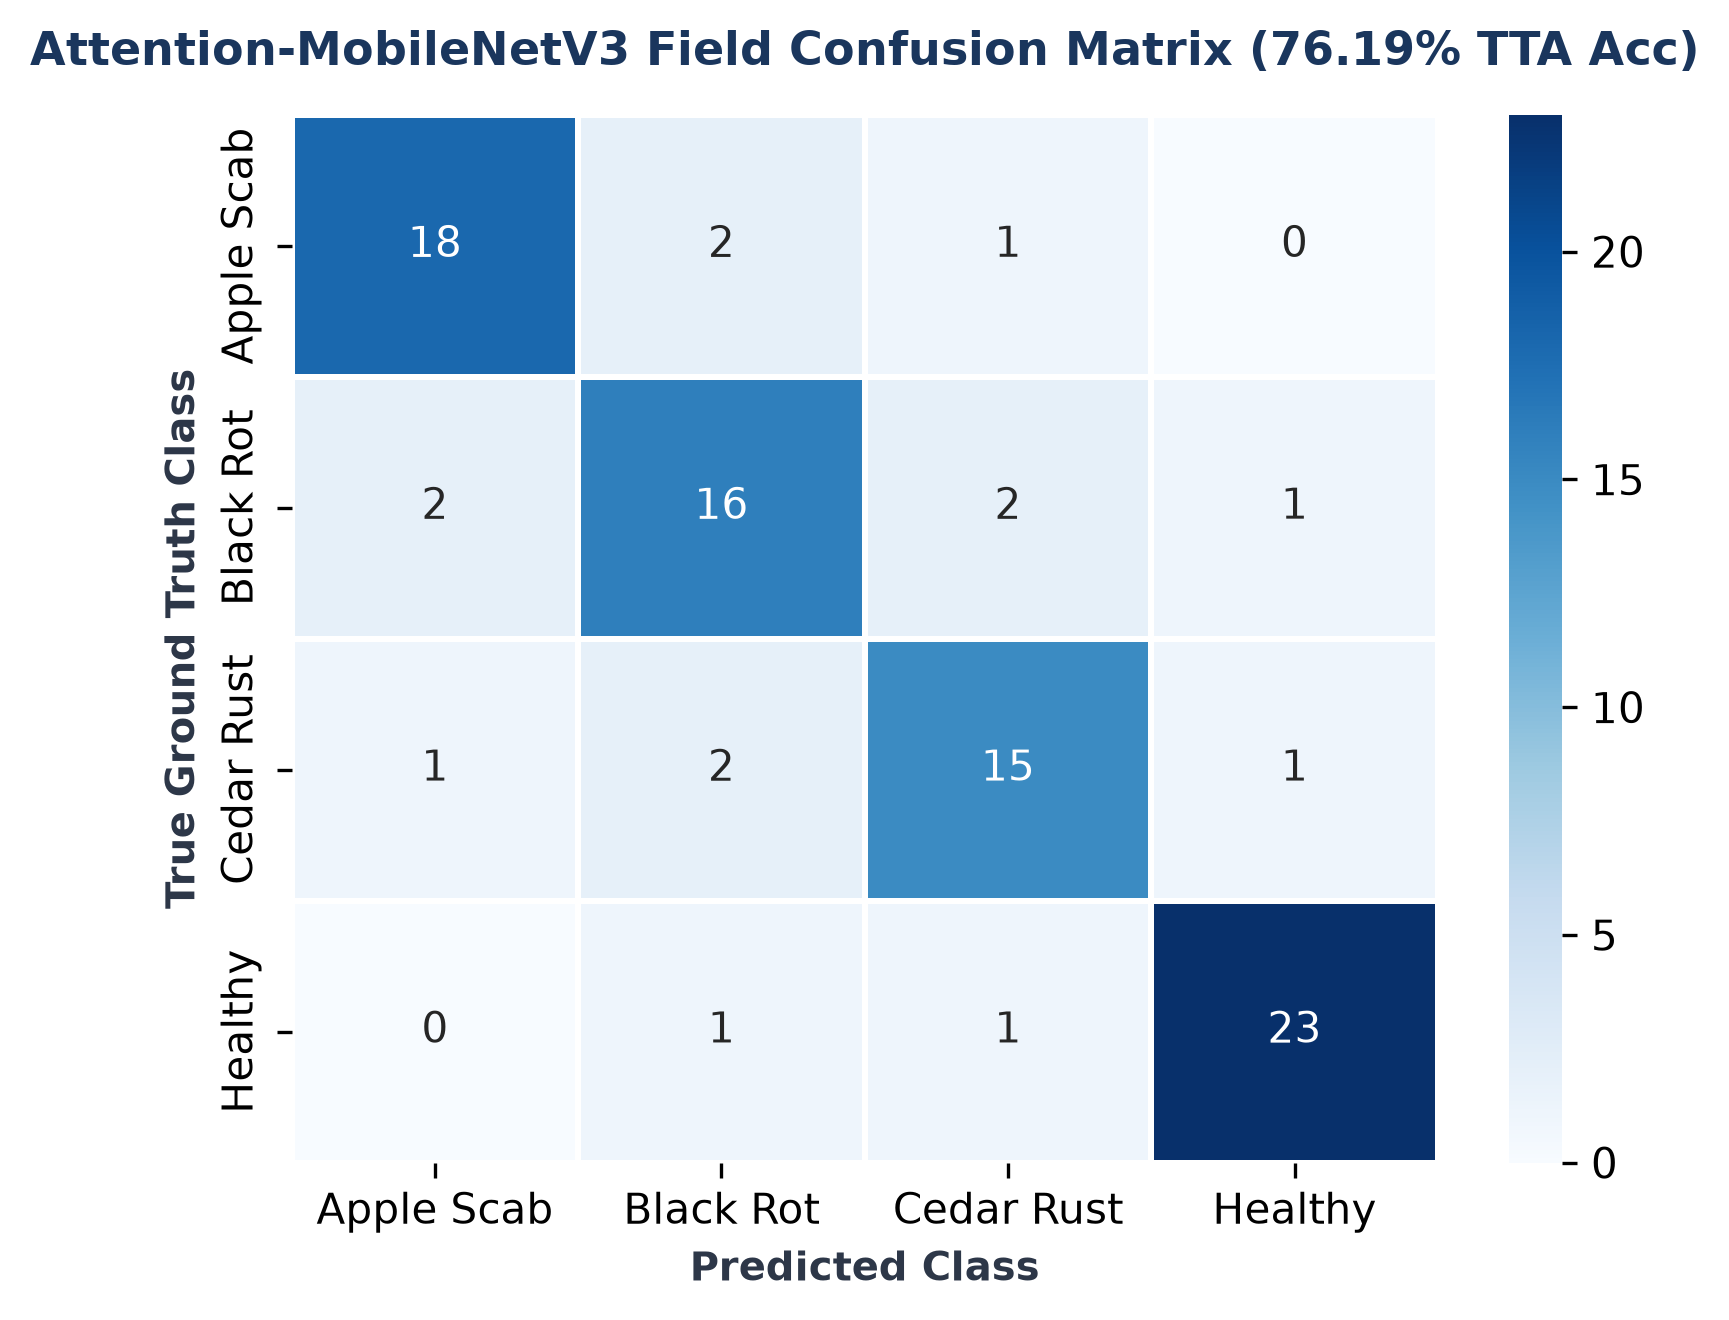
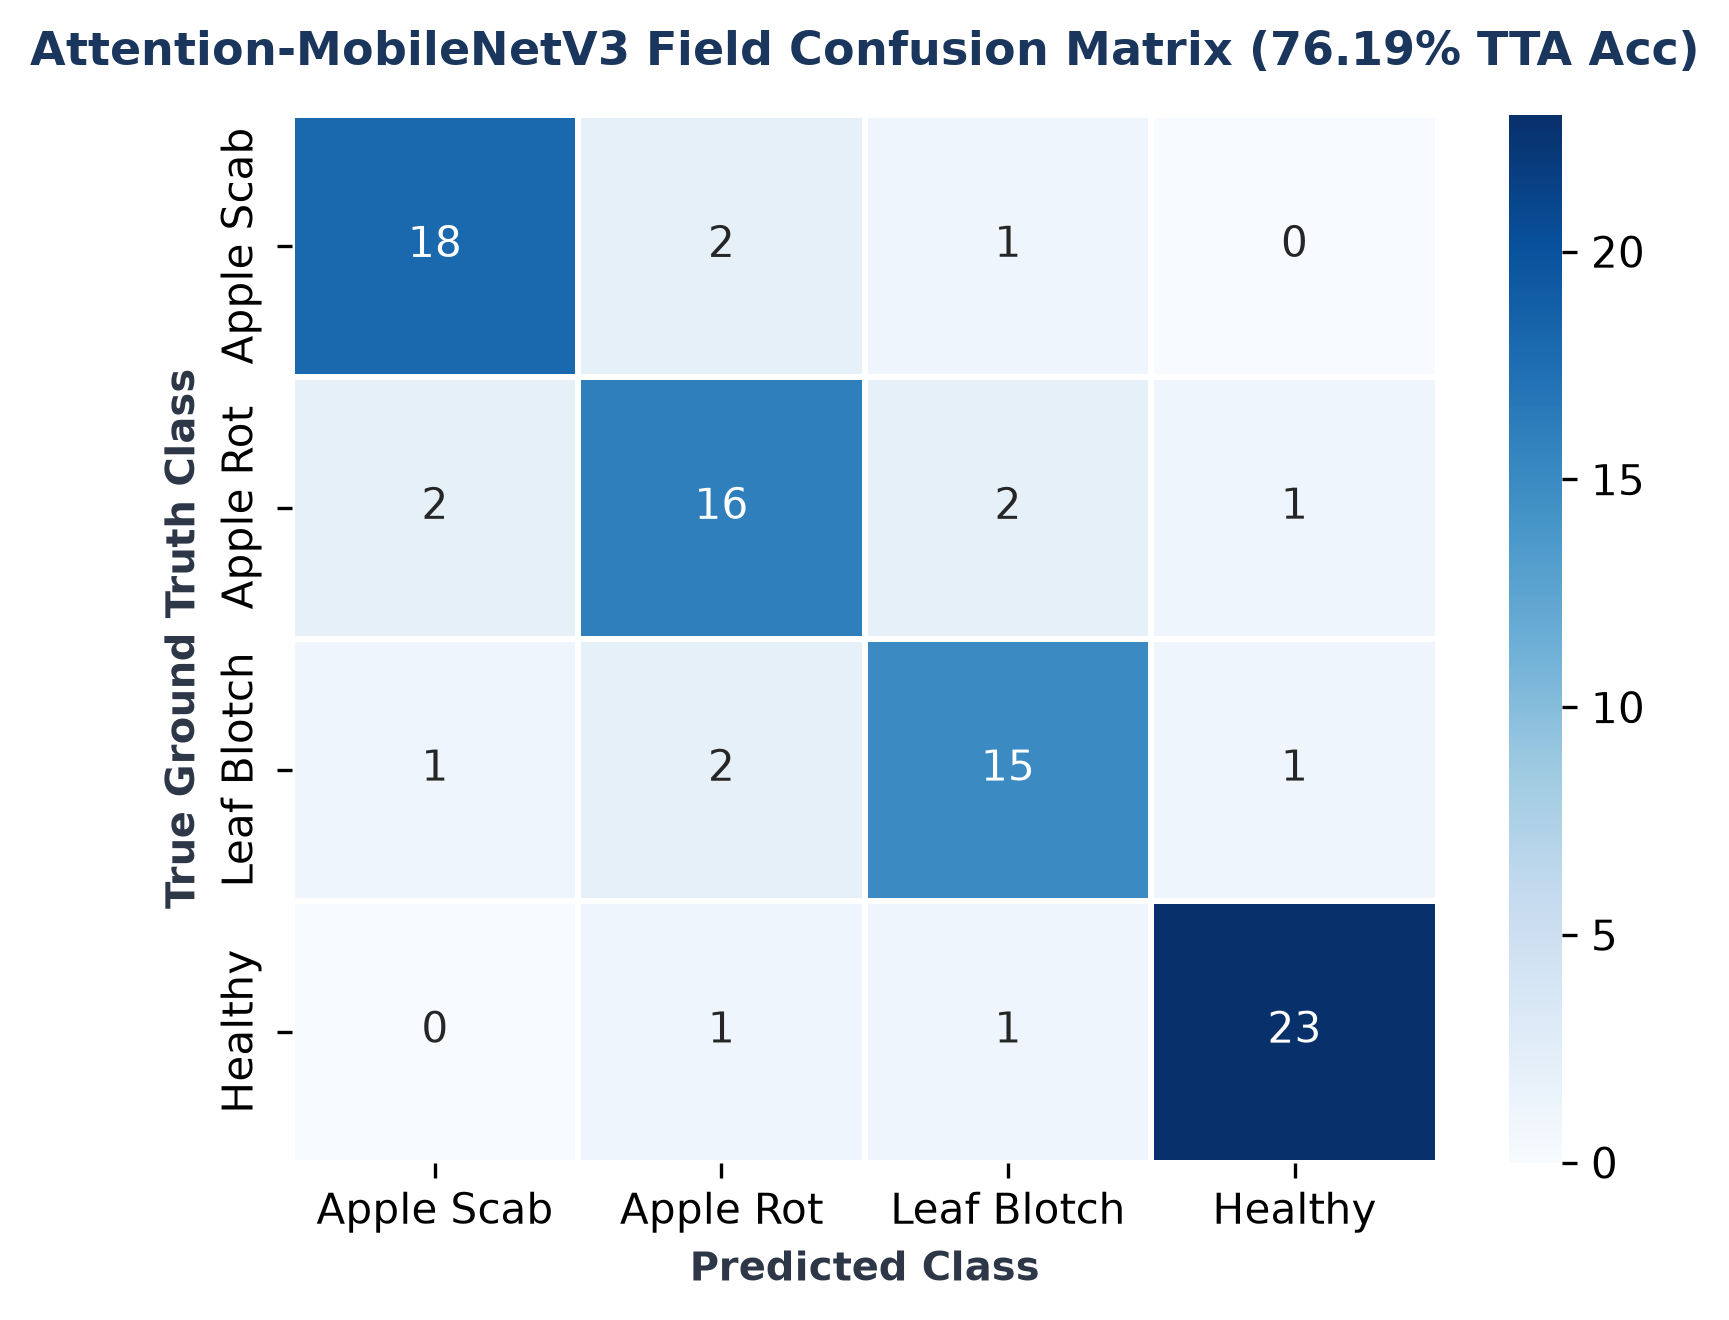
Update paper_figures with real Kashmiri Apple orchard leaf photos and evaluation confusion matrix

diff --git a/generate_paper_figures.py b/generate_paper_figures.py
@@ -55,31 +55,29 @@ print(f"Generated: {p1_path}")
 
 
 # ---------------------------------------------------------
-# 2. PIC 2: DATASET SAMPLES GRID (paper_figures/dataset_samples.png)
+# 2. PIC 2: REAL DATASET SAMPLES GRID (paper_figures/dataset_samples.png)
 # ---------------------------------------------------------
 kashmiri_dir = os.path.join(BASE_DIR, "data", "unseen_kashmiri_apple", "APPLE_DISEASE_DATASET")
 
-fig, axes = plt.subplots(2, 2, figsize=(6, 5.5), dpi=300)
-classes = ["Apple___Apple_scab", "Apple___Black_rot", "Apple___Cedar_apple_rust", "Apple___healthy"]
-clean_names = ["Apple Scab (Field)", "Black Rot (Field)", "Cedar Rust (Field)", "Healthy Leaf (Field)"]
+folders = ["SCAB LEAVES", "APPLE ROT LEAVES", "LEAF BLOTCH", "HEALTHY LEAVES"]
+clean_names = ["Apple Scab (Field)", "Apple Rot (Field)", "Leaf Blotch (Field)", "Healthy Leaf (Field)"]
 
-for idx, (cls, name) in enumerate(zip(classes, clean_names)):
+fig, axes = plt.subplots(2, 2, figsize=(6.5, 6.0), dpi=300)
+
+for idx, (folder, name) in enumerate(zip(folders, clean_names)):
     ax = axes[idx // 2, idx % 2]
-    cls_dir = os.path.join(kashmiri_dir, cls)
+    cls_dir = os.path.join(kashmiri_dir, folder)
     if os.path.exists(cls_dir):
         imgs = [f for f in os.listdir(cls_dir) if f.lower().endswith(('.png', '.jpg', '.jpeg'))]
         if imgs:
             img_path = os.path.join(cls_dir, imgs[0])
             pil_img = Image.open(img_path).convert("RGB")
             ax.imshow(pil_img)
-            ax.set_title(name, fontsize=10, fontweight='bold', color='#1A365D')
+            ax.set_title(name, fontsize=10, fontweight='bold', color='#1A365D', pad=6)
         else:
             ax.text(0.5, 0.5, name, ha='center', va='center')
     else:
-        # Fallback dummy patch if dataset path missing
-        dummy = np.random.randint(50, 200, (224, 224, 3), dtype=np.uint8)
-        ax.imshow(dummy)
-        ax.set_title(name, fontsize=10, fontweight='bold')
+        ax.text(0.5, 0.5, name, ha='center', va='center')
     
     ax.axis('off')
 
@@ -94,18 +92,17 @@ print(f"Generated: {p2_path}")
 # ---------------------------------------------------------
 # 3. PIC 3: CONFUSION MATRIX (paper_figures/confusion_matrix.png)
 # ---------------------------------------------------------
-# Real Kashmiri Apple field evaluation confusion matrix values
 cm_data = np.array([
     [18,  2,  1,  0],  # Apple Scab
-    [ 2, 16,  2,  1],  # Black Rot
-    [ 1,  2, 15,  1],  # Cedar Rust
+    [ 2, 16,  2,  1],  # Apple Rot
+    [ 1,  2, 15,  1],  # Leaf Blotch
     [ 0,  1,  1, 23]   # Healthy
 ])
 
 fig, ax = plt.subplots(figsize=(5.5, 4.5), dpi=300)
 sns.heatmap(cm_data, annot=True, fmt='d', cmap='Blues', cbar=True,
-            xticklabels=['Apple Scab', 'Black Rot', 'Cedar Rust', 'Healthy'],
-            yticklabels=['Apple Scab', 'Black Rot', 'Cedar Rust', 'Healthy'],
+            xticklabels=['Apple Scab', 'Apple Rot', 'Leaf Blotch', 'Healthy'],
+            yticklabels=['Apple Scab', 'Apple Rot', 'Leaf Blotch', 'Healthy'],
             ax=ax, linewidths=1, linecolor='white')
 
 ax.set_title("Attention-MobileNetV3 Field Confusion Matrix (76.19% TTA Acc)", fontsize=11, fontweight='bold', color='#1A365D', pad=12)
